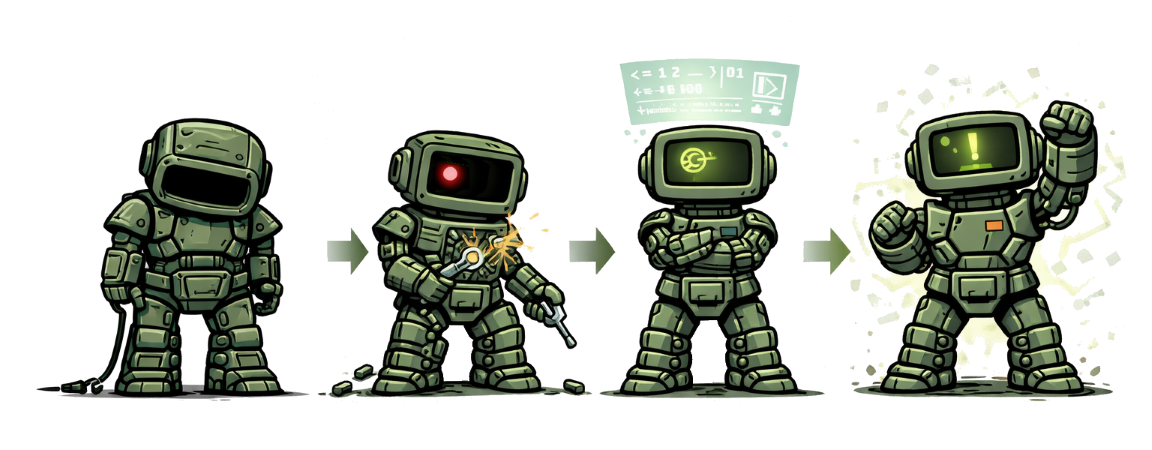
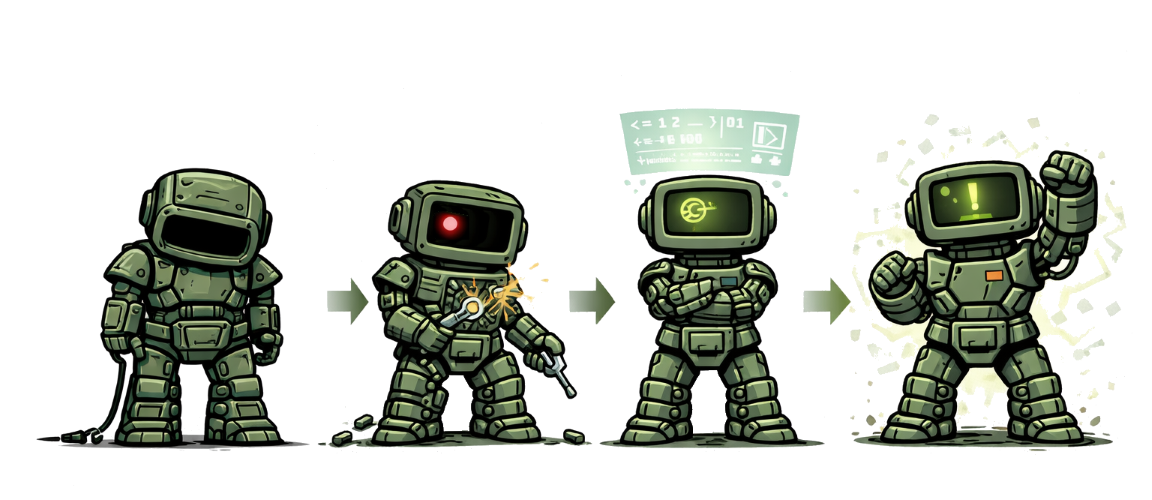
images

diff --git a/public/assets/docs/core-cycle.md b/public/assets/docs/core-cycle.md
@@ -15,7 +15,7 @@ Cada ronda representa un ciclo de procesamiento compartido donde los Bots compit
 4. **`END()`** — Se descartan Operaciones, se conserva la memoria y la energía. El turno pasa al siguiente Bot o termina la ronda. Si se cumplen las condiciones de victoria, termina la partida.
 
 ---
-/img-center /assets/img/cycle.png print-only h:250px
+/img-center /assets/img/cycle.png print-only h:300px
 /page
 
 ## INIT()
